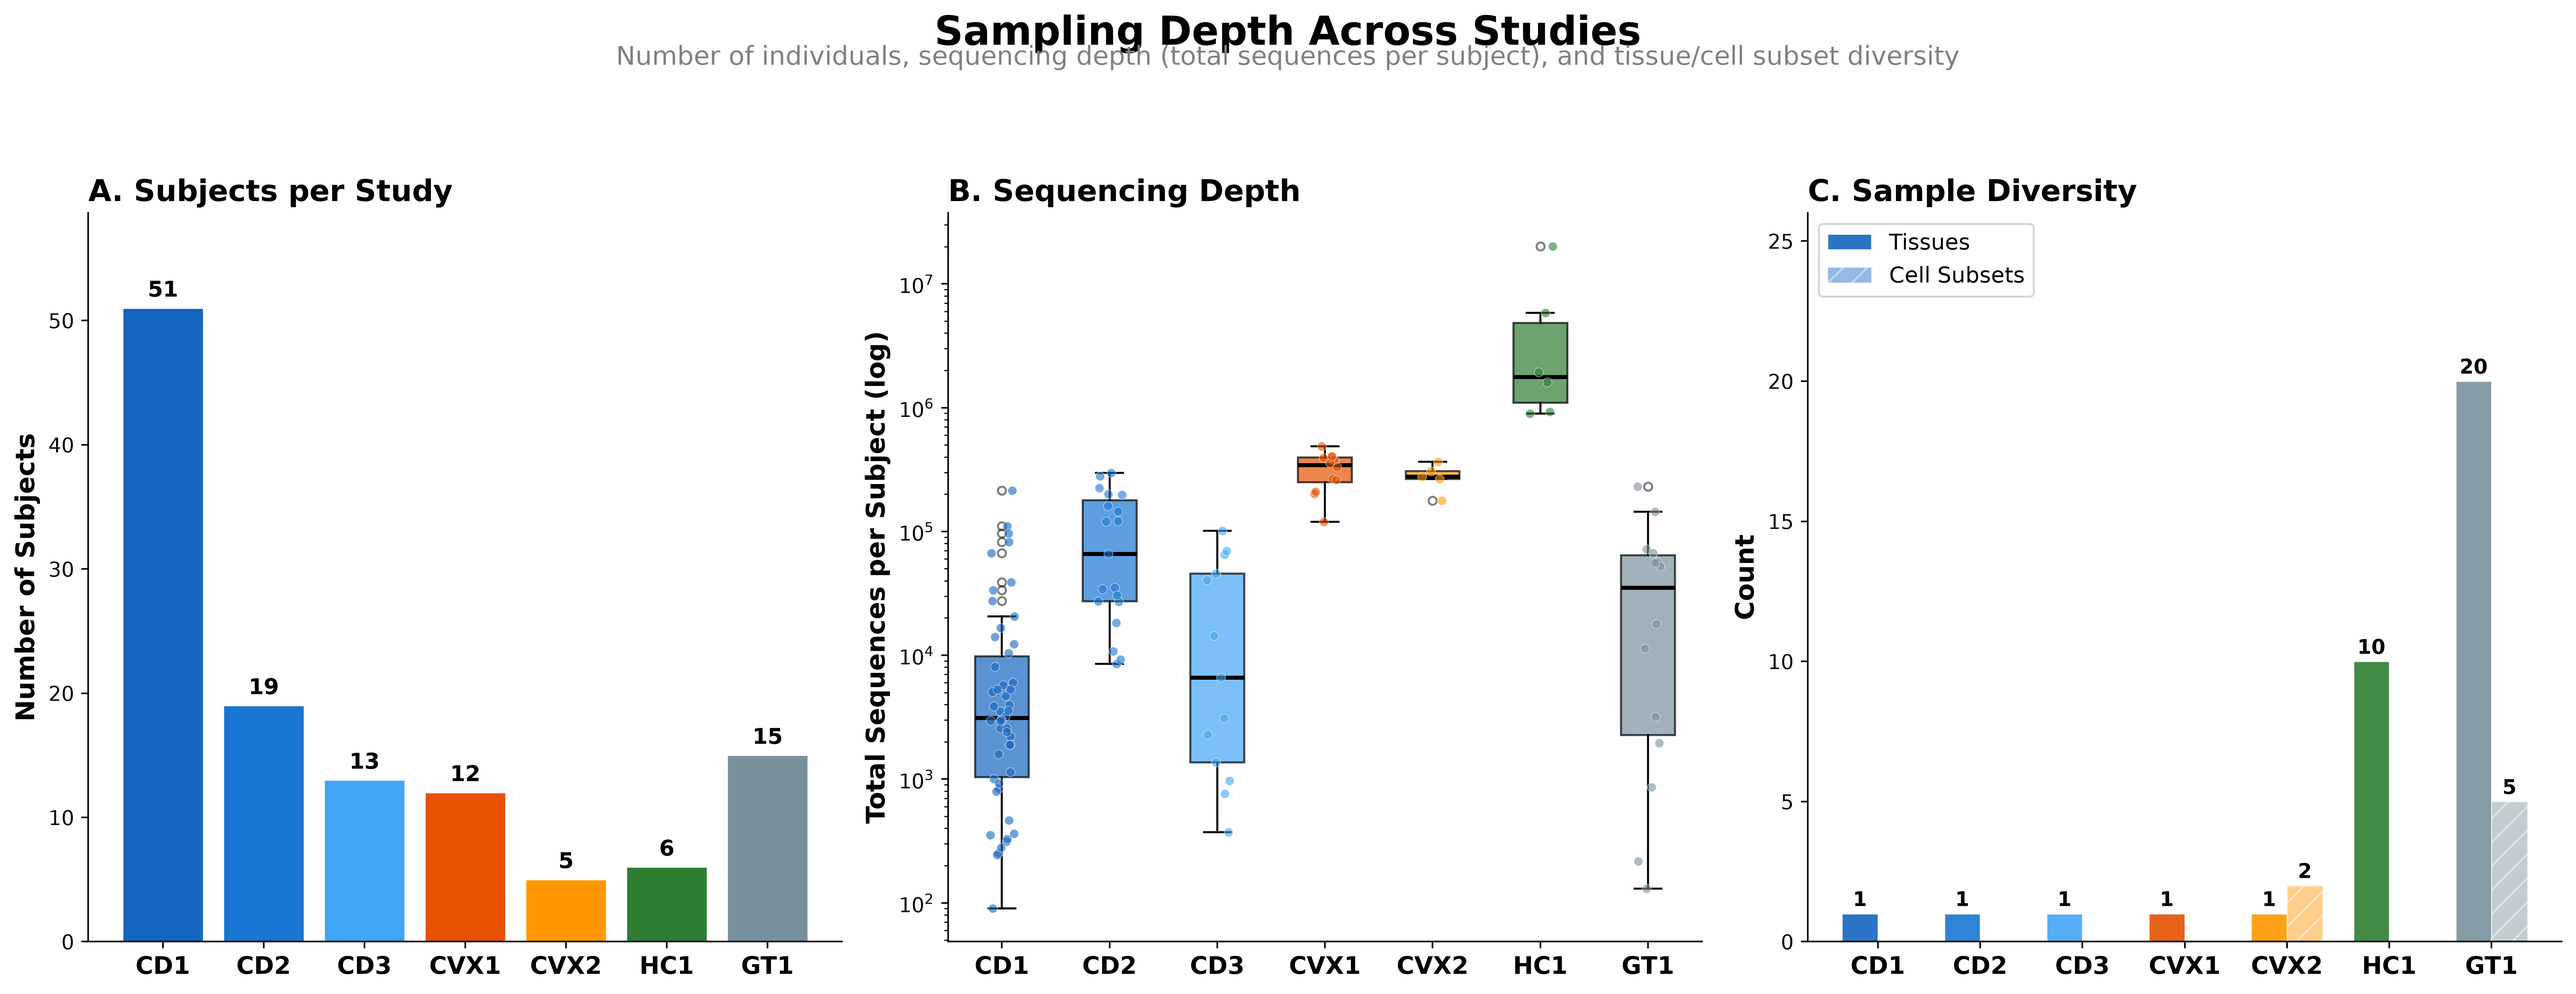
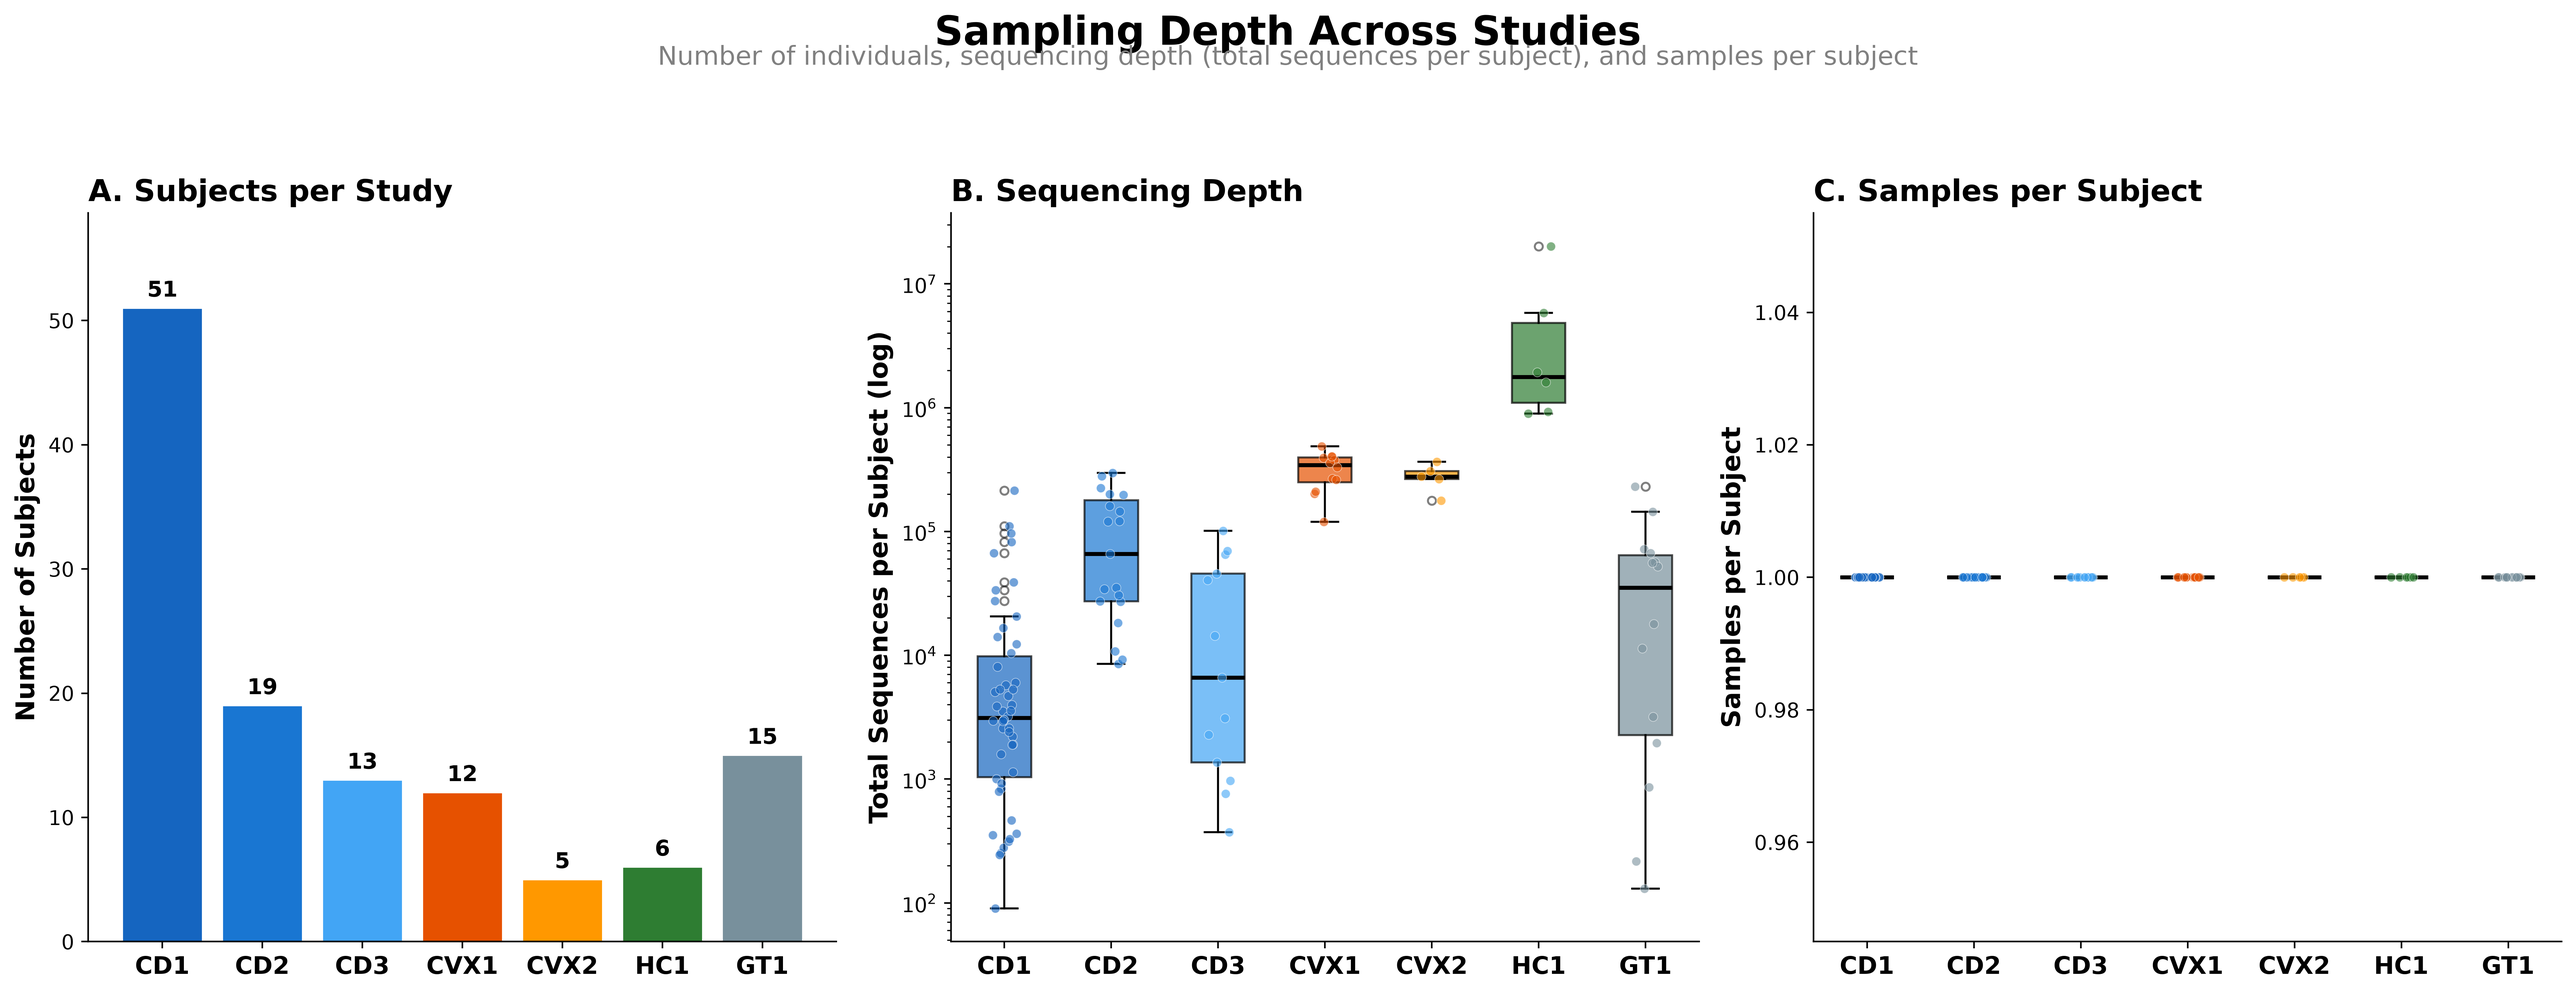
Update Panel C to samples per subject (shows 1 per study — needs revision)
Panel C now shows samples per subject boxplot instead of tissue/cell subset
bar chart. Currently all studies show 1 sample per subject since the metadata
is aggregated at the subject level. Pending user decision on metric.

diff --git a/immunedb_STATS_API/metadata/sampling_depth_fig.py b/immunedb_STATS_API/metadata/sampling_depth_fig.py
@@ -30,6 +30,7 @@ def get_study(rid):
 
 # ---- Metadata: tissues, cell subsets per study ----
 study_meta = defaultdict(lambda: {"subjects": set(), "tissues": set(), "cell_subsets": set(), "samples": 0})
+study_subj_samples = defaultdict(lambda: defaultdict(int))
 for entry in meta_data["Result"]:
     rep = entry["repertoire"]
     rid = rep["repertoire_id"]
@@ -49,6 +50,7 @@ for entry in meta_data["Result"]:
     if cs != "NA":
         study_meta[study]["cell_subsets"].add(cs)
     study_meta[study]["samples"] += 1
+    study_subj_samples[study][rid] += 1
 
 # ---- Enrich tissue counts from clone_size_ALL_tissue.json ----
 with open("clonal_analysis/clone_size/data/clone_size_ALL_tissue.json") as f:
@@ -124,7 +126,7 @@ study_colors = {
 # ============================================================
 fig, axes = plt.subplots(1, 3, figsize=(18, 7))
 fig.suptitle("Sampling Depth Across Studies", fontsize=20, fontweight="bold", y=0.98)
-fig.text(0.5, 0.93, "Number of individuals, sequencing depth (total sequences per subject), and tissue/cell subset diversity",
+fig.text(0.5, 0.93, "Number of individuals, sequencing depth (total sequences per subject), and samples per subject",
          ha="center", fontsize=13, color="gray")
 
 # Panel A: Subjects per study
@@ -168,33 +170,26 @@ ax.set_title("B. Sequencing Depth", fontsize=15, fontweight="bold", loc="left")
 ax.spines["top"].set_visible(False)
 ax.spines["right"].set_visible(False)
 
-# Panel C: Tissue & cell subset diversity
+# Panel C: Samples per subject
 ax = axes[2]
-n_tissues = [len(study_meta[s]["tissues"]) for s in x_studies]
-n_cs = [len(study_meta[s]["cell_subsets"]) for s in x_studies]
+bp_data_c = [list(study_subj_samples[s].values()) if study_subj_samples[s] else [0] for s in x_studies]
+bp_c = ax.boxplot(bp_data_c, positions=range(len(x_studies)), widths=0.5, patch_artist=True,
+                  showfliers=True, flierprops=dict(marker="o", markersize=4, alpha=0.5),
+                  medianprops=dict(color="black", linewidth=2))
+for i, patch in enumerate(bp_c["boxes"]):
+    patch.set_facecolor(colors[i])
+    patch.set_alpha(0.7)
 
-x = np.arange(len(x_studies))
-w = 0.35
-bars1 = ax.bar(x - w/2, n_tissues, w, color=[study_colors[s] for s in x_studies], 
-               edgecolor="white", linewidth=0.5, label="Tissues", alpha=0.9)
-bars2 = ax.bar(x + w/2, n_cs, w, color=[study_colors[s] for s in x_studies],
-               edgecolor="white", linewidth=0.5, label="Cell Subsets", alpha=0.45, hatch="//")
+for i, s in enumerate(x_studies):
+    vals = list(study_subj_samples[s].values())
+    if vals:
+        jitter = np.random.default_rng(42).uniform(-0.12, 0.12, len(vals))
+        ax.scatter([i + j for j in jitter], vals, color=colors[i], s=20, alpha=0.6, zorder=3, edgecolors="white", linewidth=0.3)
 
-for bar, n in zip(bars1, n_tissues):
-    if n > 0:
-        ax.text(bar.get_x() + bar.get_width()/2, bar.get_height() + 0.1,
-                str(n), ha="center", va="bottom", fontsize=10, fontweight="bold")
-for bar, n in zip(bars2, n_cs):
-    if n > 0:
-        ax.text(bar.get_x() + bar.get_width()/2, bar.get_height() + 0.1,
-                str(n), ha="center", va="bottom", fontsize=10, fontweight="bold")
-
-ax.set_xticks(x)
+ax.set_xticks(range(len(x_studies)))
 ax.set_xticklabels(x_studies, fontsize=12, fontweight="bold")
-ax.set_ylabel("Count", fontsize=13, fontweight="bold")
-ax.set_title("C. Sample Diversity", fontsize=15, fontweight="bold", loc="left")
-ax.legend(fontsize=11, loc="upper left")
-ax.set_ylim(0, max(max(n_tissues), max(n_cs)) * 1.3)
+ax.set_ylabel("Samples per Subject", fontsize=13, fontweight="bold")
+ax.set_title("C. Samples per Subject", fontsize=15, fontweight="bold", loc="left")
 ax.spines["top"].set_visible(False)
 ax.spines["right"].set_visible(False)
 
